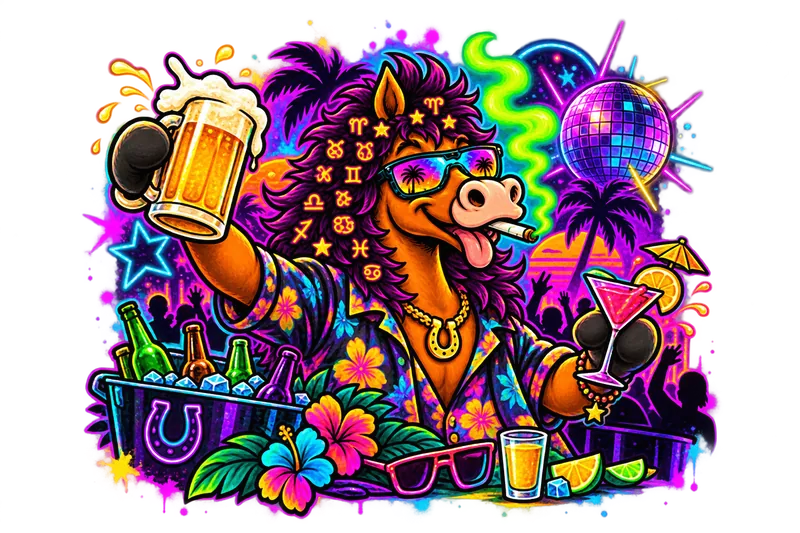
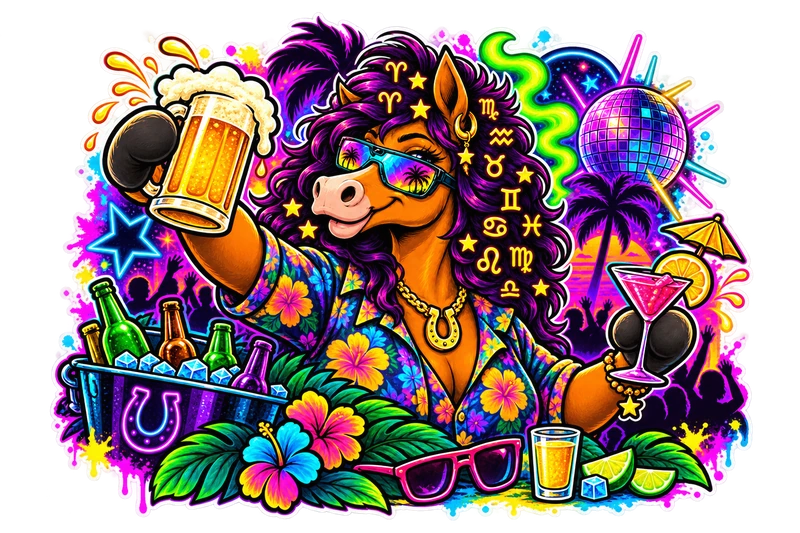
Usa la mascotte femminile per serate e viaggi
Sostituisce la mascotte nelle card Serate e Viaggi e aggiorna i testi alternativi.

diff --git a/landing/index.html b/landing/index.html
@@ -147,7 +147,7 @@
         <div class="cards">
           <article class="card card-pink">
             <img src="assets/illustrations/serate.webp" width="800" height="533" loading="lazy"
-                 alt="Lo stallone della community brinda con una birra a una festa tropicale">
+                 alt="La cavalla della community brinda con una birra a una festa tropicale">
             <h3>Serate</h3>
             <p>Uscite, aperitivi e notti lunghe con gente nuova e simpatica.</p>
           </article>
@@ -159,7 +159,7 @@
           </article>
           <article class="card card-yellow">
             <img src="assets/illustrations/viaggi.webp" width="800" height="533" loading="lazy"
-                 alt="Lo stallone con zaino, valigia e mappa, pronto a partire">
+                 alt="La cavalla con zaino, valigia e mappa, pronta a partire">
             <h3>Viaggi</h3>
             <p>Weekend e trasferte di gruppo: zaino in spalla, una meta e la mandria al completo.</p>
           </article>
